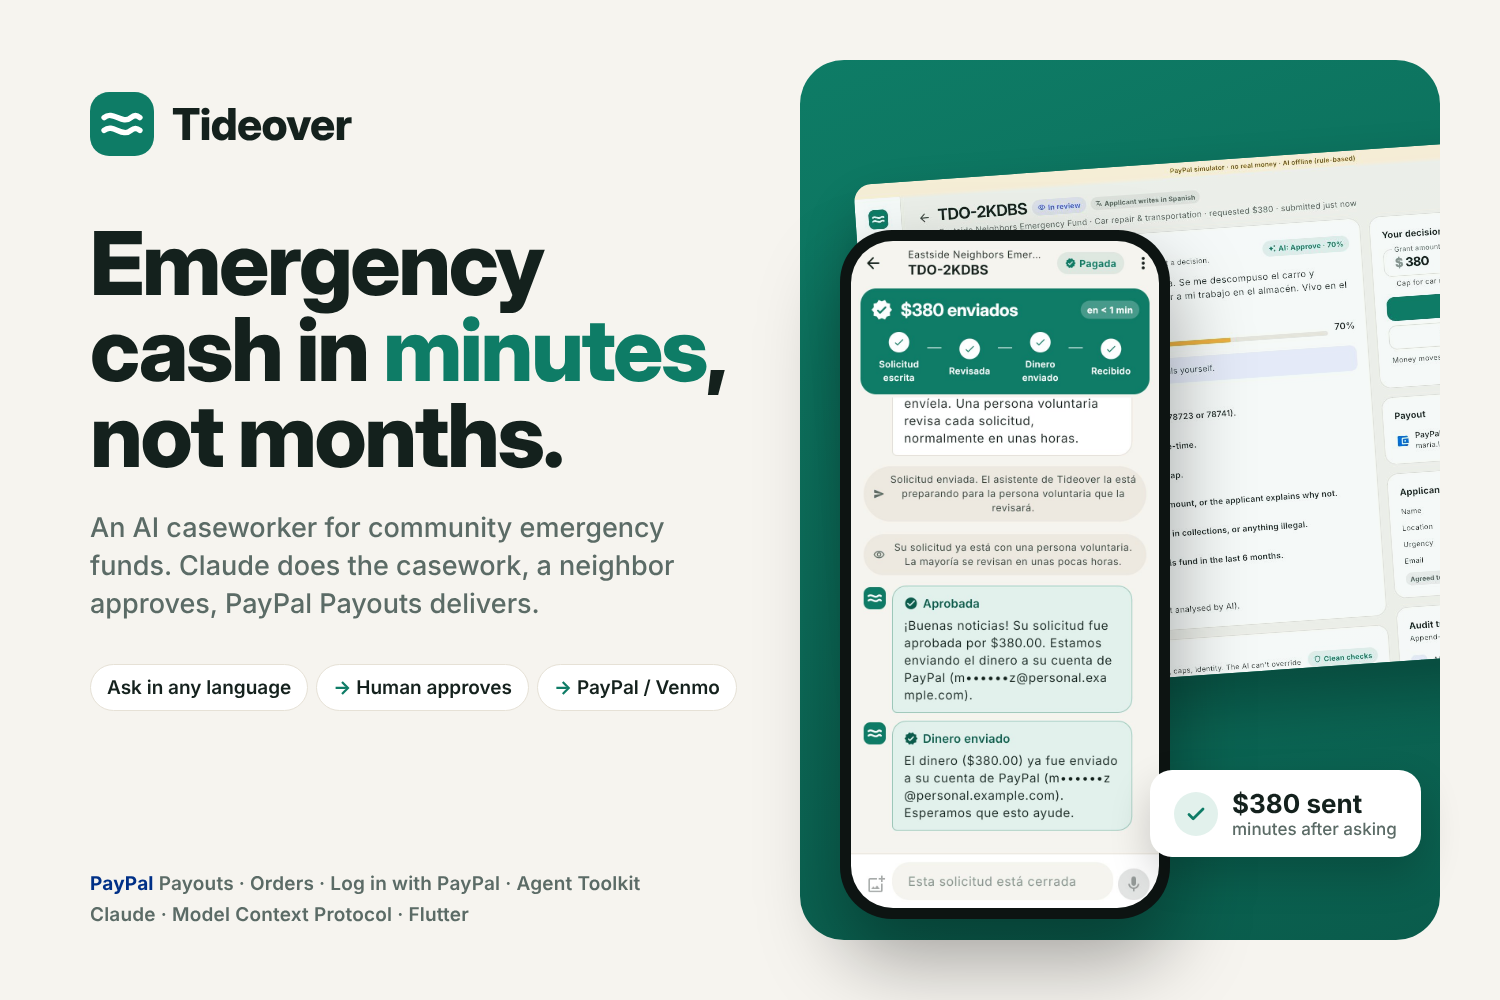
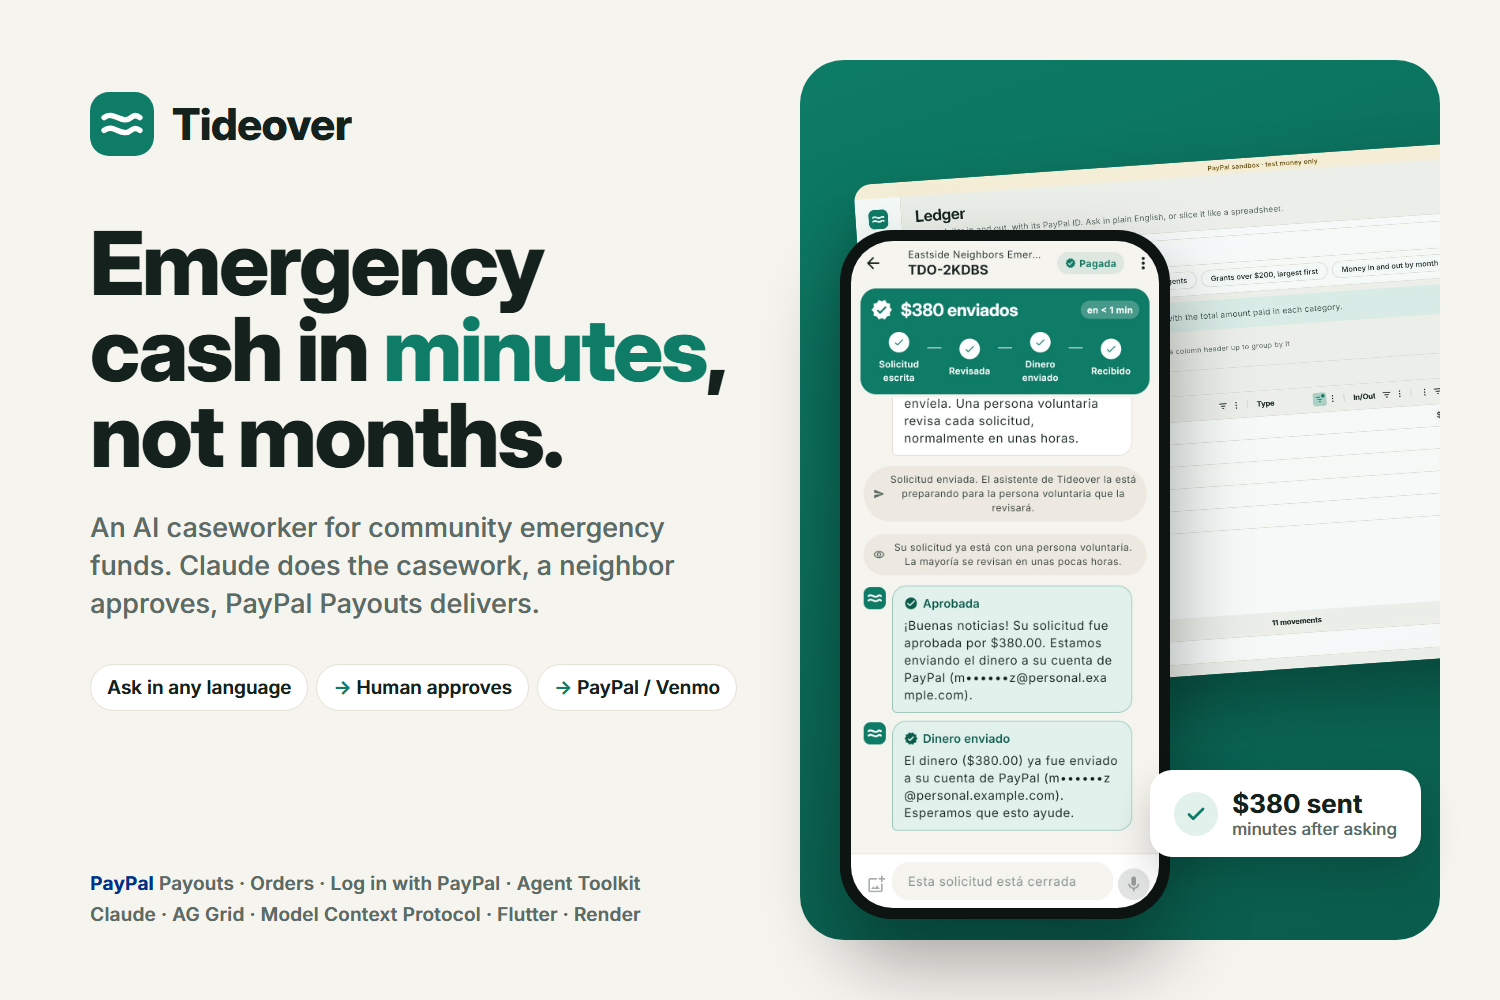
Devpost cover on the live Ledger shot, plus a YouTube thumbnail
The cover's background console shot came from offline mode and showed
"PayPal simulator · AI offline". It now uses the live sandbox + Claude
Ledger shot. render-cover.mjs also renders the 1280x720 YouTube thumbnail.

diff --git a/scripts/youtube-thumbnail.html b/scripts/youtube-thumbnail.html
@@ -1,0 +1,48 @@
+<!doctype html>
+<!-- YouTube thumbnail (1280×720). Render: node scripts/render-cover.mjs -->
+<html lang="en">
+<head>
+<meta charset="utf-8">
+<title>Tideover thumbnail</title>
+<style>
+  @font-face { font-family: Inter; src: url(../app/assets/fonts/Inter-SemiBold.otf); font-weight: 600; }
+  @font-face { font-family: Inter; src: url(../app/assets/fonts/Inter-Bold.otf); font-weight: 700; }
+  @font-face { font-family: InterDisplay; src: url(../app/assets/fonts/InterDisplay-ExtraBold.otf); font-weight: 800; }
+  :root { --teal: #0E7C66; --teal-dark: #0A5C4C; --sun: #F2B33D; --paper: #F6F4EF; }
+  * { box-sizing: border-box; margin: 0; }
+  html, body { width: 1280px; height: 720px; overflow: hidden; }
+  body { background: linear-gradient(135deg, var(--teal) 0%, var(--teal-dark) 100%); font-family: Inter, sans-serif; color: #fff; position: relative; }
+  .brand { position: absolute; left: 64px; top: 52px; display: flex; align-items: center; gap: 16px; }
+  .brand span { font-family: InterDisplay; font-weight: 800; font-size: 40px; letter-spacing: -0.5px; }
+  h1 { position: absolute; left: 64px; top: 150px; width: 700px; font-family: InterDisplay; font-weight: 800; font-size: 122px; line-height: 0.96; letter-spacing: -3.5px; text-shadow: 0 6px 24px rgba(0,0,0,0.22); }
+  h1 em { font-style: normal; color: var(--sun); }
+  .tag { position: absolute; left: 64px; bottom: 56px; display: flex; gap: 12px; }
+  .tag div { background: rgba(255,255,255,0.16); border: 2px solid rgba(255,255,255,0.35); border-radius: 999px; padding: 12px 22px; font-size: 26px; font-weight: 700; white-space: nowrap; }
+  .phone { position: absolute; right: 92px; top: 54px; width: 320px; padding: 11px; background: #0d1412; border-radius: 52px; box-shadow: 0 40px 80px rgba(0,0,0,0.4); transform: rotate(3deg); }
+  .phone img { display: block; width: 100%; border-radius: 42px; }
+  .badge { position: absolute; right: 36px; bottom: 70px; background: #fff; color: #14211D; border-radius: 24px; padding: 16px 26px; box-shadow: 0 18px 40px rgba(0,0,0,0.25); display: flex; align-items: center; gap: 14px; }
+  .badge .dot { width: 46px; height: 46px; border-radius: 50%; background: #E2F1EC; display: grid; place-items: center; }
+  .badge b { display: block; font-size: 34px; font-weight: 700; line-height: 1.1; }
+  .badge small { font-size: 20px; color: #5B6B66; font-weight: 600; }
+</style>
+</head>
+<body>
+  <div class="brand">
+    <svg width="56" height="56" viewBox="0 0 100 100" aria-hidden="true">
+      <rect width="100" height="100" rx="30" fill="#fff"/>
+      <g fill="none" stroke="#0E7C66" stroke-width="8.5" stroke-linecap="round">
+        <path d="M22 40 C36 28 50 52 64 40 Q71 34 78 40"/>
+        <path d="M22 60 C36 48 50 72 64 60 Q71 54 78 60"/>
+      </g>
+    </svg>
+    <span>Tideover</span>
+  </div>
+  <h1>Cash in <em>minutes</em>, not months.</h1>
+  <div class="tag"><div>AI proposes</div><div>People decide</div><div>PayPal pays</div></div>
+  <div class="phone"><img src="../docs/screenshots/apply-paid.jpg" alt=""></div>
+  <div class="badge">
+    <div class="dot"><svg width="26" height="26" viewBox="0 0 24 24" aria-hidden="true"><path d="M5 12.5l4.2 4.2L19 7" fill="none" stroke="#0E7C66" stroke-width="2.8" stroke-linecap="round" stroke-linejoin="round"/></svg></div>
+    <div><b>$380 sent</b><small>via PayPal Payouts</small></div>
+  </div>
+</body>
+</html>

diff --git a/scripts/devpost-cover.html b/scripts/devpost-cover.html
@@ -55,10 +55,10 @@
       <div><b>→</b> PayPal / Venmo</div>
     </div>
   </div>
-  <div class="tech"><strong>PayPal</strong> Payouts · Orders · Log in with PayPal · Agent Toolkit<br>Claude · Model Context Protocol · Flutter</div>
+  <div class="tech"><strong>PayPal</strong> Payouts · Orders · Log in with PayPal · Agent Toolkit<br>Claude · AG Grid · Model Context Protocol · Flutter · Render</div>
 
   <div class="panel">
-    <img class="console" src="../docs/screenshots/console-case.jpg" alt="">
+    <img class="console" src="../docs/screenshots/console-ledger-ask.jpg" alt="">
   </div>
   <div class="phone" style="right: 330px; top: 230px;"><img src="../docs/screenshots/apply-paid.jpg" alt=""></div>
   <div class="badge" style="left: 1150px; top: 770px;">
